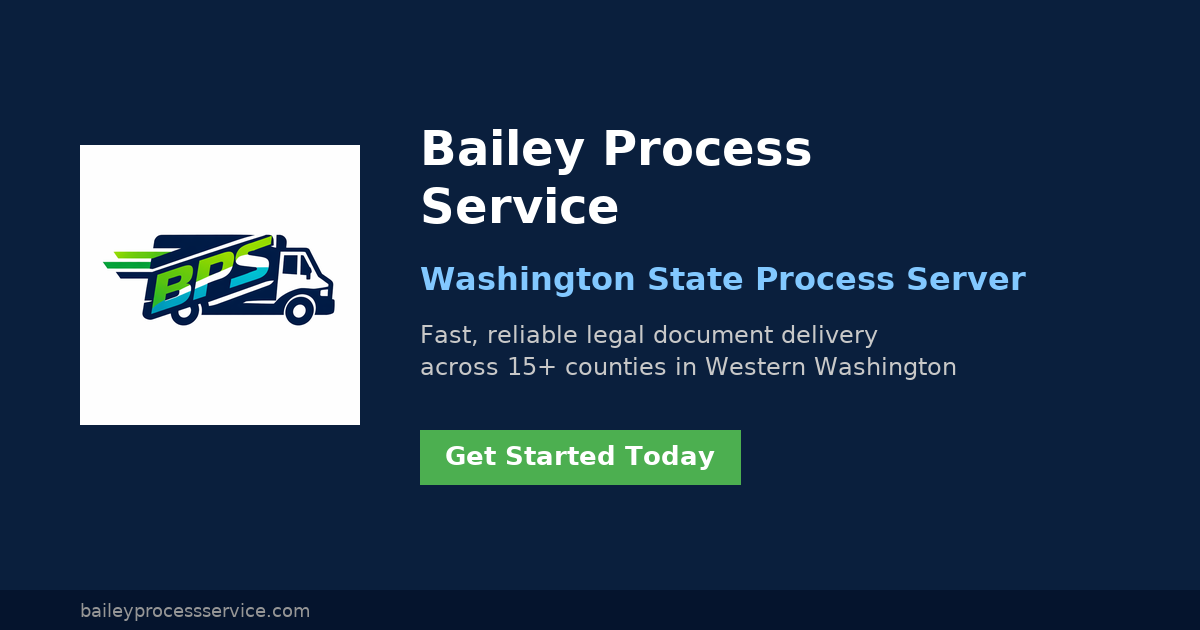
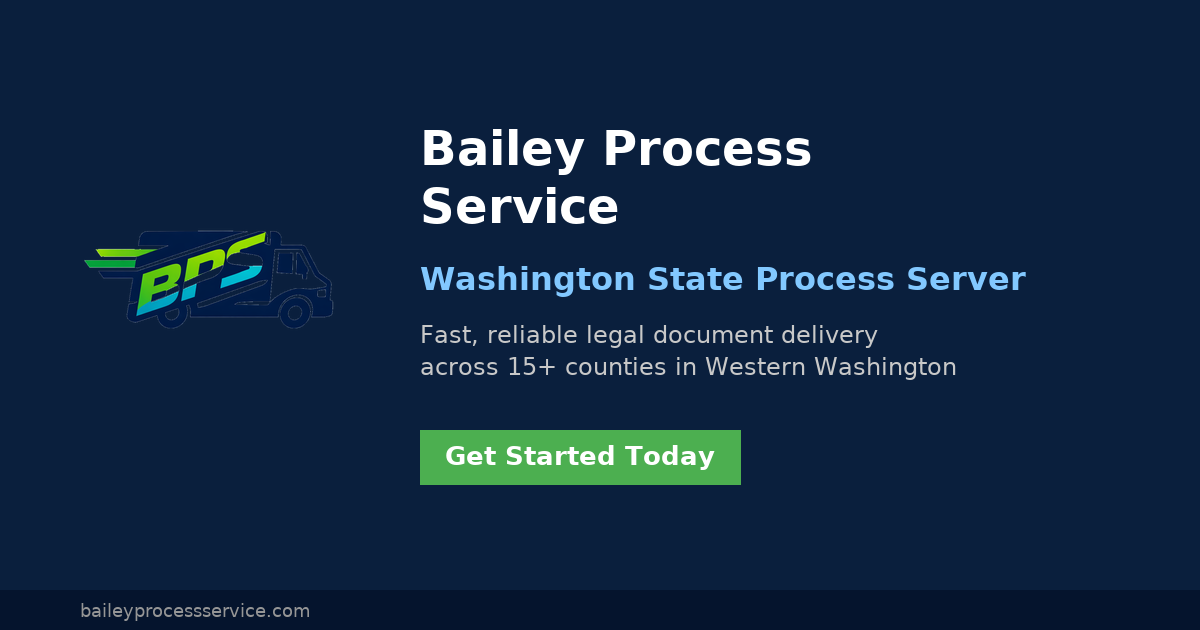
Add robots.txt, sitemap.xml, expand structured data, fix OG image
- Add robots.txt allowing all crawlers with sitemap reference
- Add sitemap.xml for search engine indexing
- Expand JSON-LD structured data with specific counties and cities
- Add knowsAbout field for legal expertise keywords
- Remove white background from logo in OG image
- Clean up CSP (remove unused raw.githubusercontent.com)

Changed region(s): [[0.0617, 0.2111, 0.3083, 0.6937]]

diff --git a/index.html b/index.html
@@ -4,7 +4,7 @@
   <meta charset="UTF-8">
   <meta name="viewport" content="width=device-width, initial-scale=1.0">
   <meta name="description" content="Bailey Process Service delivers fast, reliable, professional legal documents across 15+ counties in Western Washington. Locally owned and operated.">
-  <meta http-equiv="Content-Security-Policy" content="default-src 'self'; img-src 'self' data: https://raw.githubusercontent.com; style-src 'self' 'unsafe-inline' https://fonts.googleapis.com https://cdnjs.cloudflare.com; font-src 'self' https://fonts.gstatic.com https://cdnjs.cloudflare.com data:; script-src 'self' 'unsafe-inline'; connect-src 'self'; form-action 'none'; base-uri 'self'; object-src 'none'">
+  <meta http-equiv="Content-Security-Policy" content="default-src 'self'; img-src 'self' data:; style-src 'self' 'unsafe-inline' https://fonts.googleapis.com https://cdnjs.cloudflare.com; font-src 'self' https://fonts.gstatic.com https://cdnjs.cloudflare.com data:; script-src 'self' 'unsafe-inline'; connect-src 'self'; form-action 'none'; base-uri 'self'; object-src 'none'">
   <meta http-equiv="X-Content-Type-Options" content="nosniff">
   <meta name="referrer" content="strict-origin-when-cross-origin">
   <title>Bailey Process Service | Washington State Process Server</title>
@@ -52,11 +52,18 @@
     "url": "https://baileyprocessservice.com",
     "logo": "https://baileyprocessservice.com/og-image.png",
     "description": "Fast, reliable, professional legal document delivery across 15+ counties in Western Washington. Locally owned and operated.",
-    "areaServed": {
-      "@type": "Place",
-      "name": "Western Washington"
-    },
-    "serviceType": ["Process Serving", "Legal Courier", "Substitute Service", "Rush Service", "Document Delivery"]
+    "areaServed": [
+      {"@type": "State", "name": "Washington"},
+      {"@type": "AdministrativeArea", "name": "King County, Washington"},
+      {"@type": "AdministrativeArea", "name": "Pierce County, Washington"},
+      {"@type": "AdministrativeArea", "name": "Snohomish County, Washington"},
+      {"@type": "AdministrativeArea", "name": "Thurston County, Washington"},
+      {"@type": "AdministrativeArea", "name": "Kitsap County, Washington"},
+      {"@type": "City", "name": "Seattle, Washington"},
+      {"@type": "City", "name": "Tacoma, Washington"}
+    ],
+    "serviceType": ["Process Serving", "Legal Courier", "Substitute Service", "Rush Service", "Document Delivery"],
+    "knowsAbout": ["RCW Title 4", "Service of Process", "Legal Document Delivery", "Court Filing"]
   }
   </script>
 </head>
